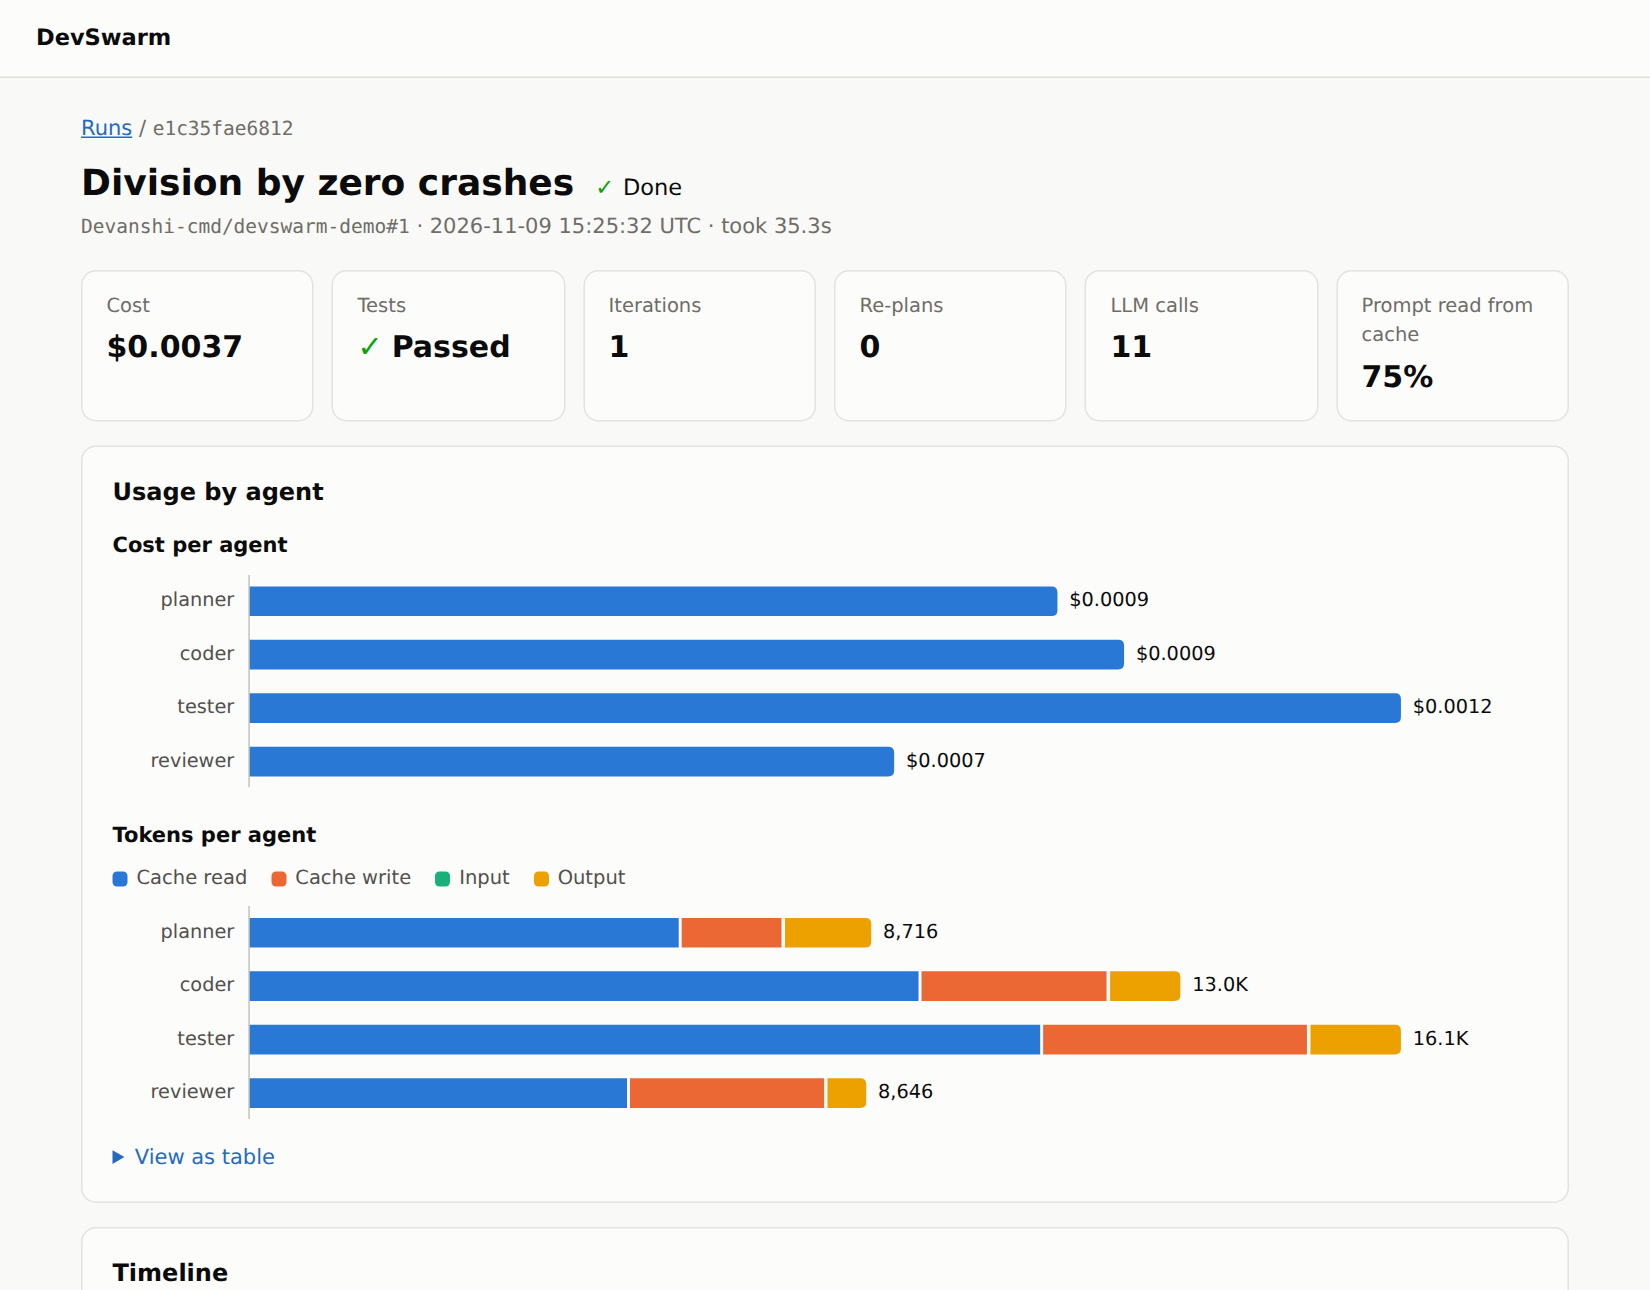
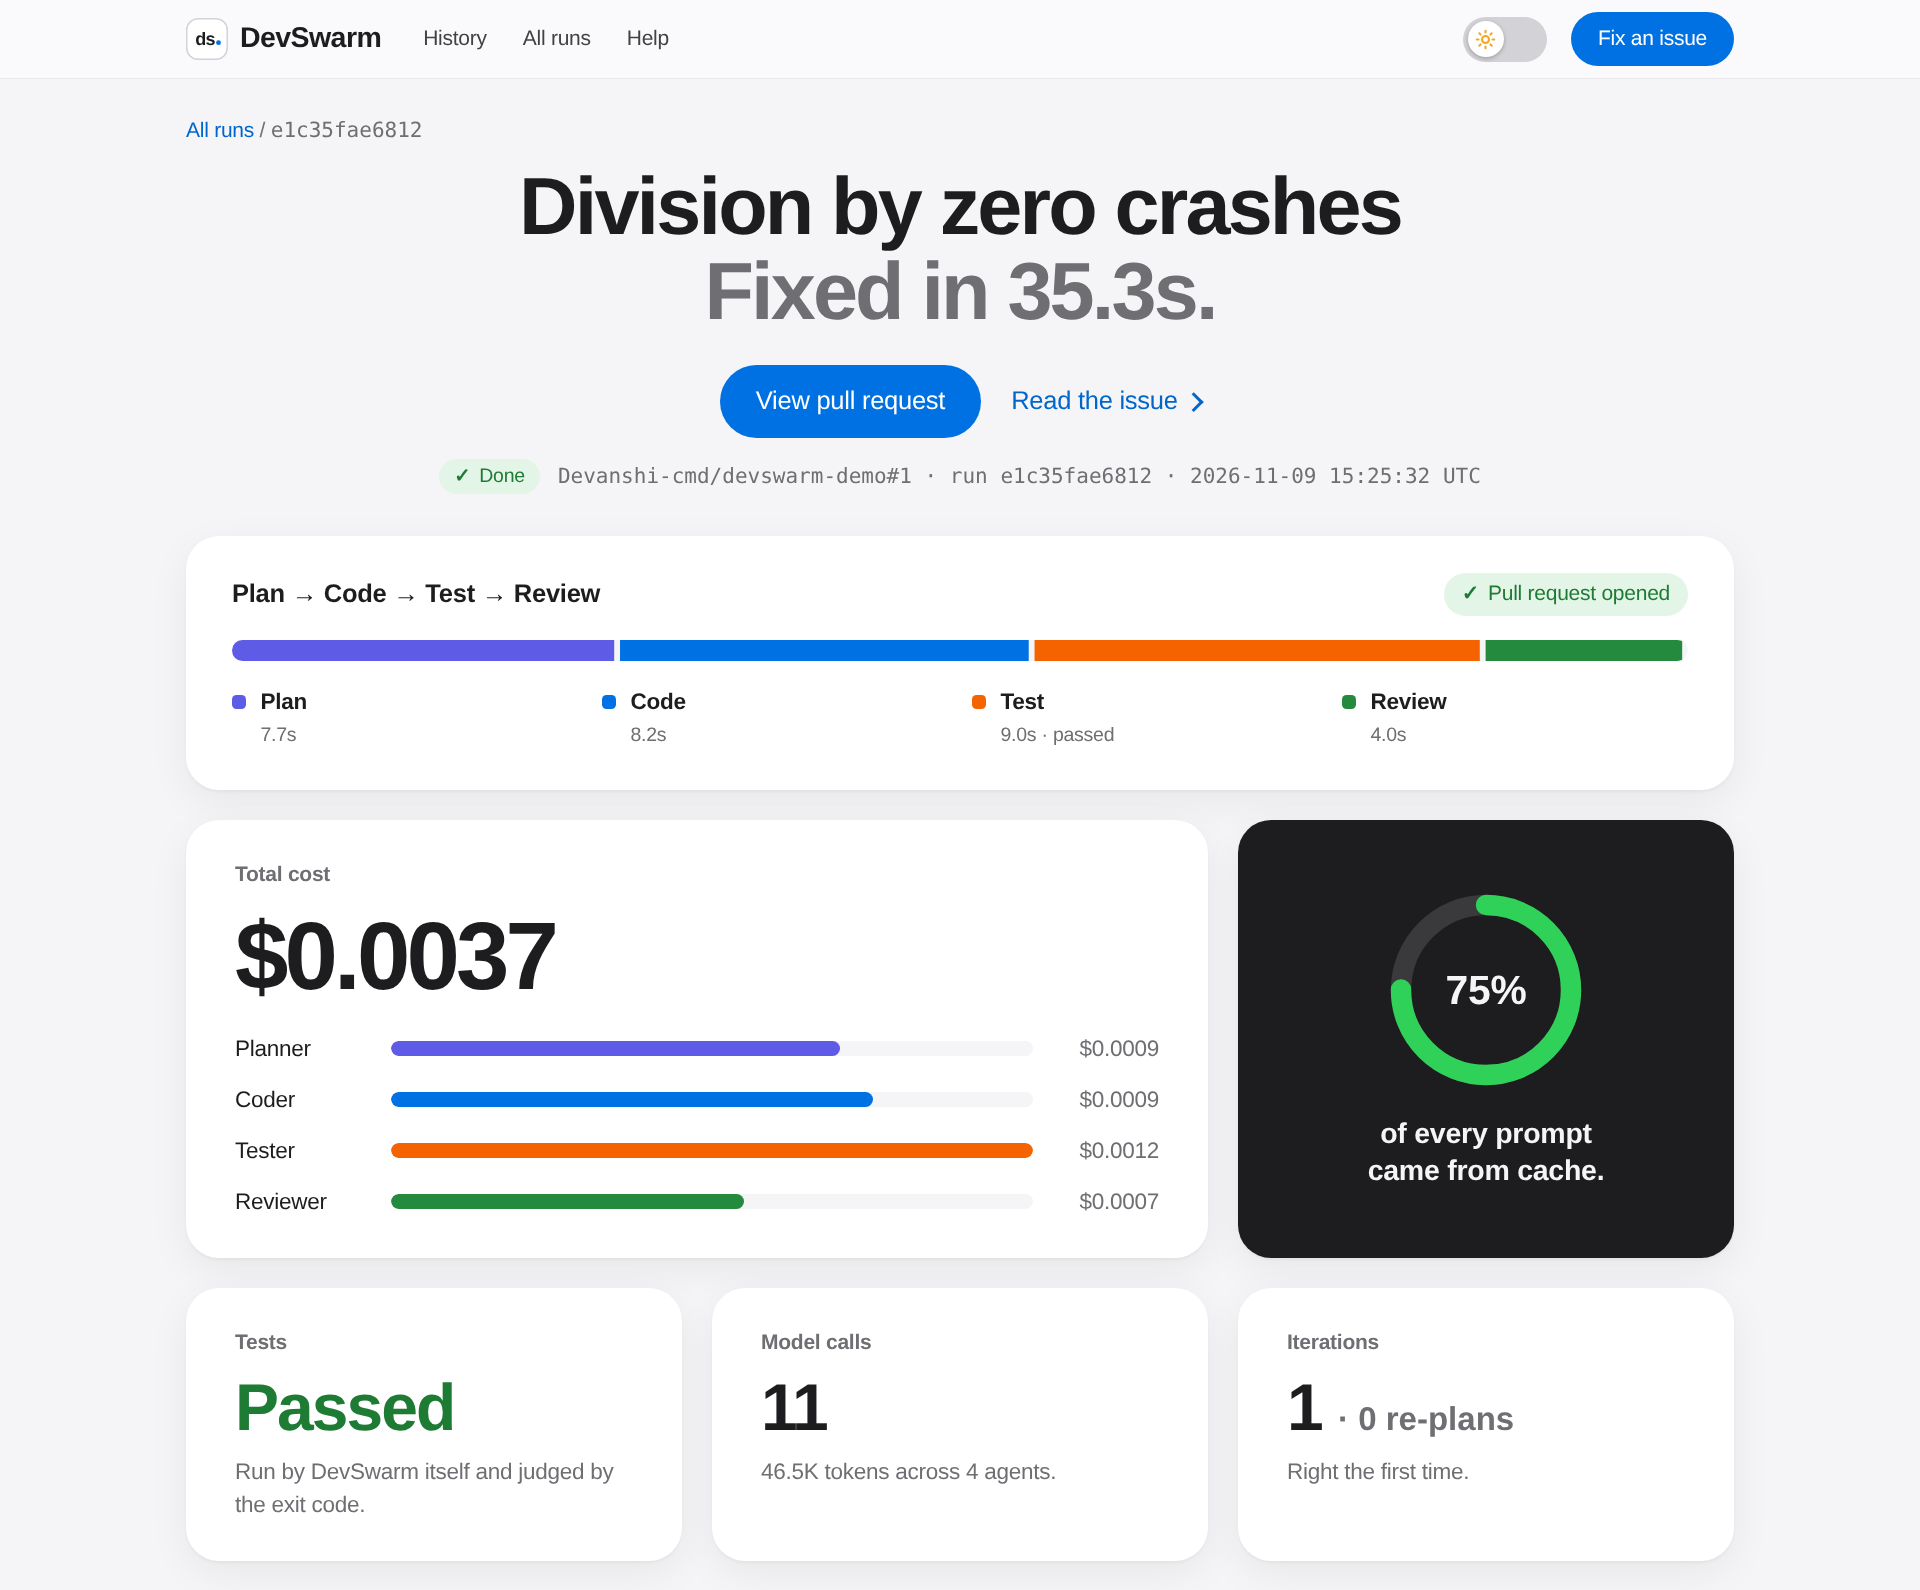
Show the redesigned dashboard in the README and walkthrough

diff --git a/README.md b/README.md
@@ -6,7 +6,7 @@
 
 **Try the live dashboard:** [devswarm.devanshitiwari.com](https://devswarm.devanshitiwari.com) shows every fix, and lets anyone with the access code submit an issue and watch the agents work.
 
-![The DevSwarm dashboard showing a finished run with cost and token charts](docs/images/dashboard.png)
+![The DevSwarm home page: a form for a GitHub issue link, beside the latest run that opened a pull request](docs/images/home.png)
 
 ## Highlights
 
@@ -15,7 +15,13 @@
 - **Models can't grade themselves.** DevSwarm runs the tests itself and goes by the exit code. The Tester can only change test files.
 - **Built for untrusted code.** No network or secrets in the sandbox, read-only `.git`, symlink-safe file tools, and prompt-injection defences.
 - **Measured.** 18 tasks scored by hidden tests the agents never see, compared against headless Claude Code.
-- **Observable.** Every prompt, tool call and cent is recorded and shown in a local dashboard.
+- **Observable.** Every prompt, tool call and cent is recorded and shown in the dashboard.
+
+## Dashboard
+
+Every run gets its own page. It shows how long each agent took, what each one cost, how much of the prompt came from cache, and whether the tests passed, followed by a step-by-step timeline and the final diff. The dashboard has a day and a night theme.
+
+![A finished run: time per stage, cost per agent, cache share, test result and model calls](docs/images/dashboard.png)
 
 ## How it works
 

diff --git a/docs/HOW_IT_WORKS.md b/docs/HOW_IT_WORKS.md
@@ -92,6 +92,10 @@ Prompt caching does most of the cost work. Conversations are strictly append-onl
 
 Every LLM call and tool call goes to SQLite, with secrets removed on the way in. Because conversations are append-only, each row stores only the new messages. The dashboard reads this database through a read-only connection, and treats everything in it as untrusted.
 
+Each run's page shows how long each stage took, the cost per agent, how much of the prompt came from cache, the test result, every step with its prompts and tool calls, and the final diff.
+
+![A finished run in the dashboard](images/dashboard.png)
+
 ## 10. Evaluation
 
 `devswarm eval` runs buggy tasks and scores them with hidden tests. Agents only ever receive a task's `repo/` folder. The hidden tests join the code in a fresh container after the agents have stopped, and scoring ignores any pytest configuration in the repository. A test proves that every task's bug is real and that a reference fix passes.
